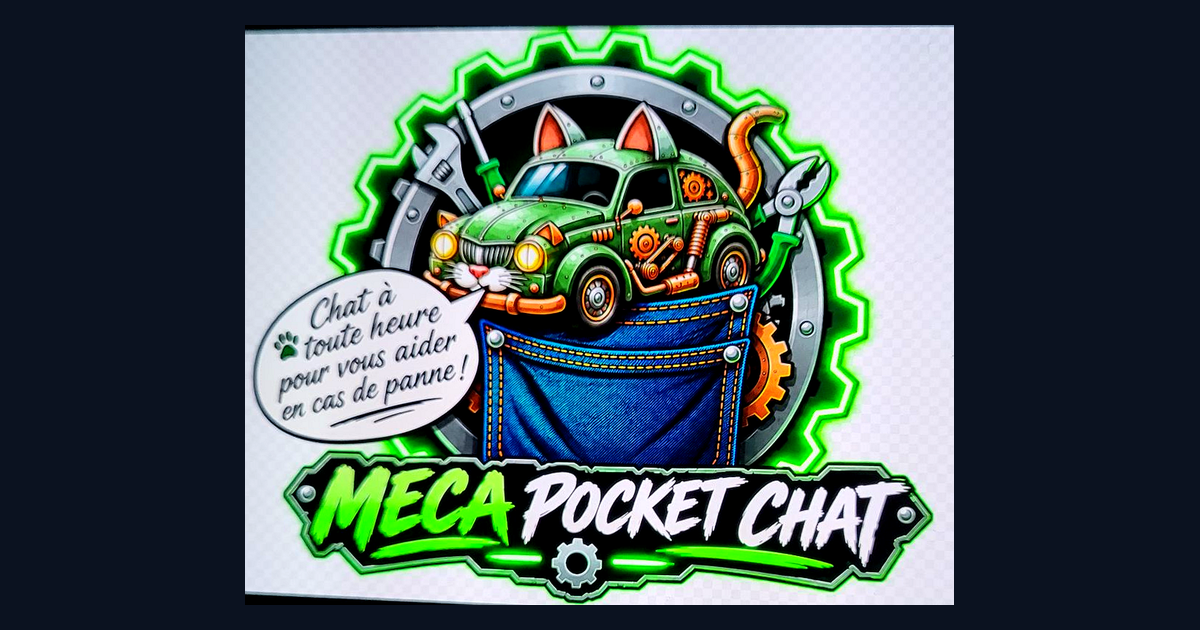
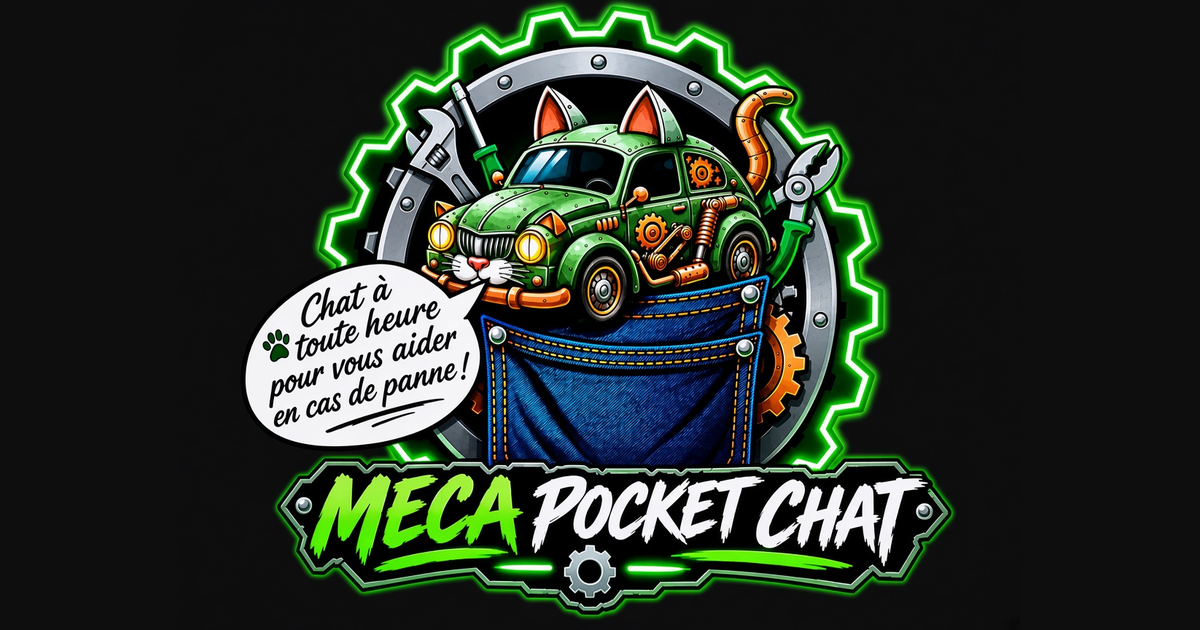
Redesign néon + Tout connecter

diff --git a/app.js b/app.js
@@ -1,4 +1,4 @@
-const h=new Date().getHours();if(h<7||h>=20)document.body.classList.add('nuit');
+const h=new Date().getHours(),NUIT=h<7||h>=20;
 const S='⚠ Moteur coupé, frein à main serré, gilet jaune et triangle si vous êtes sur la route. Sur autoroute : derrière la glissière et appelez l\'assistance.';
 const G=[
 {t:'🛞 Changer une roue',w:S+' Jamais sous la voiture quand elle est sur le cric.',s:['Garez-vous sur un sol plat et dur, hors de la circulation.','Sortez la roue de secours, le cric et la clé.','Desserrez les écrous d\'un demi-tour, roue encore au sol.','Placez le cric au point prévu (voir le manuel), levez la voiture.','Enlevez les écrous puis la roue.','Mettez la roue de secours, vissez les écrous à la main.','Redescendez la voiture, serrez les écrous en étoile, bien fort.','Vérifiez la pression et resserrez après 50 km. Une galette : 80 km/h max.']},
@@ -16,26 +16,34 @@ const PROMPT="Tu es Meca Pocket Chat, l'assistant mécanicien automobile de Stat
 const GEM_LINK='';// lien du Gem à mettre ici
 function fullPrompt(){const d=(document.getElementById('d')||{}).value;return PROMPT+(d||'Je vais te la montrer avec la caméra et t\'expliquer à voix haute. Commence par me demander de te montrer la panne.')}
 async function copy(){try{await navigator.clipboard.writeText(fullPrompt());return true}catch(e){return false}}
-async function video(){await copy();document.getElementById('st').style.display='block';setTimeout(()=>{location.href=GEM_LINK||'https://gemini.google.com/app'},1500)}
+let LS=null;
+async function connect(){const b=document.getElementById('cx');b.textContent='⏳ Connexion…';
+try{LS=await navigator.mediaDevices.getUserMedia({video:{facingMode:'environment'},audio:true});const p=document.getElementById('prev');p.srcObject=LS;p.style.display='block';
+const t=LS.getVideoTracks()[0];let dark=NUIT;
+if(!dark){await new Promise(r=>setTimeout(r,800));const c=document.createElement('canvas');c.width=32;c.height=32;const x=c.getContext('2d');x.drawImage(p,0,0,32,32);const d=x.getImageData(0,0,32,32).data;let s=0;for(let i=0;i<d.length;i+=4)s+=d[i]+d[i+1]+d[i+2];dark=s/(d.length/4*3)<50}
+if(dark){try{await t.applyConstraints({advanced:[{torch:true}]})}catch(e){}}
+b.textContent='✅ Connecté – parlez, je note';micro()}catch(e){b.textContent='🔗 Tout connecter';alert('Autorisez la caméra et le micro dans le navigateur.')}
+document.getElementById('send').style.display='block'}
+async function video(){await copy();if(LS)LS.getTracks().forEach(t=>t.stop());document.getElementById('st').style.display='block';setTimeout(()=>{location.href=GEM_LINK||'https://gemini.google.com/app'},1200)}
 async function gpt(){await copy();location.href='https://chatgpt.com/?q='+encodeURIComponent(fullPrompt())}
-function micro(){const R=window.SpeechRecognition||window.webkitSpeechRecognition;if(!R){alert('Micro non disponible ici.');return}
-const r=new R();r.lang='fr-FR';r.interimResults=true;const d=document.getElementById('d');d.style.display='block';d.placeholder='🎤 Parlez…';
-r.onresult=ev=>{d.value=[...ev.results].map(x=>x[0].transcript).join(' ')};r.start()}
-function home(){m.innerHTML=`<button class="big" style="font-size:32px;padding:34px;text-align:center" onclick="video()">🎥 Montre ta panne en vidéo</button>
-<div id="st" class="warn" style="display:none;background:#dcfce7;color:#14532d">✅ Message copié ! Gemini s'ouvre…</div>
-<ol style="font-size:24px;font-weight:600"><li>Dans Gemini, appuie longtemps dans la case et <b>Colle</b> le message, puis envoie.</li><li>Appuie sur l'icône <b>Live</b> (les ondes 〰), puis sur la <b>caméra</b> 📷.</li><li><b>Parle</b> et <b>montre</b> la panne.</li></ol>
-<button class="big g" onclick="micro()">🎤 Dire ma panne au micro</button><textarea id="d" rows="4" style="display:none;width:100%;font-size:24px;padding:14px;border-radius:14px;border:2px solid var(--acc);background:var(--card);color:var(--fg)"></textarea>
-<button class="big g" onclick="gpt()">🤖 Demander à ChatGPT</button>
-<button class="big g" onclick="torch()">🔦 Lampe torche</button>
-<button class="big" style="background:#dc2626;color:#fff" onclick="aide()">🆘 Contacter Station Technique</button>
-<h2 style="font-size:22px">Petits guides</h2><input id="q" placeholder="🔍 Chercher (roue, batterie…)" oninput="list(this.value)"><div id="l"></div>`;list('')}
-function list(q){q=q.toLowerCase().normalize('NFD').replace(/[\u0300-\u036f]/g,'');document.getElementById('l').innerHTML=G.map((g,i)=>[g,i]).filter(([g])=>(g.t+g.s.join(' ')).toLowerCase().normalize('NFD').replace(/[\u0300-\u036f]/g,'').includes(q)).map(([g,i])=>`<button class="big g" onclick="guide(${i})">${g.t}</button>`).join('')||'<p>Rien trouvé.</p>'}
+function micro(){const R=window.SpeechRecognition||window.webkitSpeechRecognition;const d=document.getElementById('d');d.style.display='block';if(!R){d.placeholder='Écrivez votre panne ici';return}
+const r=new R();r.lang='fr-FR';r.interimResults=true;r.continuous=true;d.placeholder='🎤 Décrivez votre panne à voix haute…';
+r.onresult=ev=>{d.value=[...ev.results].map(x=>x[0].transcript).join(' ')};try{r.start()}catch(e){}}
+function home(){m.innerHTML=`<button class="main" id="cx" onclick="connect()">🔗 Tout connecter</button>
+<video id="prev" playsinline autoplay muted></video>
+<textarea id="d" rows="3" style="display:none;margin-top:10px"></textarea>
+<button class="main" id="send" style="display:none" onclick="video()">🤖 Envoyer à l'IA</button>
+<div id="st" class="help" style="display:none;color:var(--g)">✅ Message copié ! Gemini s'ouvre…</div>
+<ol class="help"><li>Dans Gemini, collez le message et envoyez.</li><li>Touchez <b>Live</b> 〰 puis la caméra 📷.</li><li>Parlez et montrez la panne.</li></ol>
+<div class="links"><button onclick="gpt()">ChatGPT</button><button onclick="torch()">🔦 Lampe</button><button onclick="aide()">🆘 Contact</button><button onclick="guides()">📘 Guides</button></div>`}
+function guides(){m.innerHTML=`<button class="big" onclick="home()">⬅ Retour</button><h2>Guides</h2><input id="q" placeholder="🔍 Chercher (roue, batterie…)" oninput="list(this.value)"><div id="l"></div>`;list('')}
+function list(q){q=q.toLowerCase().normalize('NFD').replace(/[\u0300-\u036f]/g,'');document.getElementById('l').innerHTML=G.map((g,i)=>[g,i]).filter(([g])=>(g.t+g.s.join(' ')).toLowerCase().normalize('NFD').replace(/[\u0300-\u036f]/g,'').includes(q)).map(([g,i])=>`<button class="big" onclick="guide(${i})">${g.t}</button>`).join('')||'<p>Rien trouvé.</p>'}
 function guide(i){const g=G[i];m.innerHTML=`<button class="big g" onclick="home()">⬅ Retour</button><h2>${g.t}</h2><div class="warn">${g.w}</div><ol>${g.s.map(x=>`<li>${x}</li>`).join('')}</ol><button class="big" onclick="aide()">🆘 Besoin d'aide ?</button>`;scrollTo(0,0)}
 function aide(){const sub=encodeURIComponent('Meca Pocket Chat – demande d\'aide'),body=encodeURIComponent('Bonjour Station Technique,\n\nMa voiture (marque, modèle, année) :\nLe problème :\nOù je suis :\nMon téléphone :\n\n(Je joins une photo)');
 m.innerHTML=`<button class="big g" onclick="home()">⬅ Retour</button><h2>🆘 Appelez un pro si :</h2><ul><li>Vous êtes sur l'autoroute ou en danger</li><li>Fumée, odeur de brûlé, fuite d'essence</li><li>Voyant rouge allumé</li><li>Freins ou direction qui ne répondent plus</li><li>Vous n'avez pas les outils ou vous doutez</li></ul>
-<a class="big" style="background:#dc2626;color:#fff;text-decoration:none" href="tel:112">📞 Urgence : 112</a>
+<a class="big" style="border-color:#dc2626;color:#ff8080" href="tel:112">📞 Urgence : 112</a>
 <p><b>Assistance de votre assurance :</b> le numéro est sur votre carte verte ou votre contrat. Sur autoroute, utilisez les bornes orange (tous les 2 km).</p>
-<a class="big" style="text-decoration:none" href="mailto:loicm7059@gmail.com?subject=${sub}&body=${body}">✉ Demander l'aide de Station Technique</a>
+<a class="big" href="mailto:loicm7059@gmail.com?subject=${sub}&body=${body}">✉ Demander l'aide de Station Technique</a>
 <p>📸 Prenez d'abord une photo du problème (bouton Caméra), puis ajoutez-la au mail avec le trombone 📎.</p><p style="font-size:16px">Meca Pocket Chat par Station Technique – Loïc Martin – RCS Brest 525 036 570</p>`;scrollTo(0,0)}
 let st,on=false;const C=document.getElementById('cam'),V=document.getElementById('v');
 async function cam(){try{st=await navigator.mediaDevices.getUserMedia({video:{facingMode:'environment'}});V.srcObject=st;C.style.display='flex'}catch(e){alert('Caméra non disponible. Autorisez la caméra dans le navigateur.')}}
@@ -43,7 +51,7 @@ function stop(){st&&st.getTracks().forEach(t=>t.stop());st=null;on=false;C.style
 document.getElementById('cc').onclick=stop;
 document.getElementById('lt').onclick=async()=>{try{on=!on;await st.getVideoTracks()[0].applyConstraints({advanced:[{torch:on}]})}catch(e){document.getElementById('blanc').style.display='flex'}};
 document.getElementById('snap').onclick=()=>{const c=document.createElement('canvas');c.width=V.videoWidth;c.height=V.videoHeight;c.getContext('2d').drawImage(V,0,0);const u=c.toDataURL('image/jpeg',.9);stop();
-m.innerHTML=`<button class="big g" onclick="home()">⬅ Retour</button><img id="photo" src="${u}"><a class="big" style="text-decoration:none" download="panne.jpg" href="${u}">💾 Enregistrer la photo</a><button class="big" onclick="aide()">🆘 Envoyer à Station Technique</button>`};
+m.innerHTML=`<button class="big g" onclick="home()">⬅ Retour</button><img id="photo" src="${u}"><a class="big" download="panne.jpg" href="${u}">💾 Enregistrer la photo</a><button class="big" onclick="aide()">🆘 Envoyer à Station Technique</button>`};
 async function torch(){try{const s=await navigator.mediaDevices.getUserMedia({video:{facingMode:'environment'}});const t=s.getVideoTracks()[0];
 if(!(t.getCapabilities&&t.getCapabilities().torch))throw 0;await t.applyConstraints({advanced:[{torch:true}]});
 const b=document.getElementById('blanc');b.style.background='#000';b.style.color='#fff';b.textContent='🔦 Lampe allumée – touchez pour éteindre';b.style.display='flex';

diff --git a/index.html b/index.html
@@ -1,24 +1,29 @@
 <!doctype html><html lang="fr"><head><meta charset="utf-8"><meta name="viewport" content="width=device-width,initial-scale=1">
-<title>Meca Pocket Chat</title><meta name="description" content="Chat à toute heure pour vous aider en cas de panne !"><meta property="og:title" content="Meca Pocket Chat"><meta property="og:description" content="Chat à toute heure pour vous aider en cas de panne !"><meta property="og:image" content="https://lolo19p4.github.io/depannage/og.png"><link rel="manifest" href="manifest.json"><meta name="theme-color" content="#f59e0b">
+<title>Meca Pocket Chat</title><meta name="description" content="Chat à toute heure pour vous aider en cas de panne !"><meta property="og:title" content="Meca Pocket Chat"><meta property="og:description" content="Chat à toute heure pour vous aider en cas de panne !"><meta property="og:image" content="https://lolo19p4.github.io/depannage/og.png"><link rel="manifest" href="manifest.json"><meta name="theme-color" content="#0d0f0d">
 <link rel="icon" href="icon-192.png"><link rel="apple-touch-icon" href="icon-192.png">
 <style>
-:root{--bg:#fff;--fg:#111;--card:#f3f4f6;--acc:#d97706}
-body.nuit{--bg:#0b1220;--fg:#f1f5f9;--card:#1e293b;--acc:#f59e0b}
-*{box-sizing:border-box}body{margin:0;font:22px/1.5 system-ui,sans-serif;background:var(--bg);color:var(--fg)}
-header{display:flex;align-items:center;gap:12px;padding:14px;background:#111827;color:#fff}header img{width:56px;border-radius:12px}h1{font-size:26px;margin:0}
-main{padding:14px;max-width:700px;margin:auto}
-.big{display:block;width:100%;font-size:26px;font-weight:700;padding:22px;margin:10px 0;border:0;border-radius:16px;background:var(--acc);color:#111;text-align:left}
+:root{--g:#39ff14;--bg:#0d0f0d;--card:#161a16;--fg:#e8f5e4;--mut:#9aa89a}
+*{box-sizing:border-box}body{margin:0;font:19px/1.5 system-ui,sans-serif;color:var(--fg);background:radial-gradient(circle at 50% 0,#14301a 0,var(--bg) 60%) fixed,var(--bg)}
+body:before{content:"⚙";position:fixed;right:-60px;bottom:-80px;font-size:340px;color:rgba(57,255,20,.04);z-index:-1}
+header{text-align:center;padding:14px 12px 4px}header img{width:100%;max-width:460px;border-radius:18px;box-shadow:0 0 28px rgba(57,255,20,.25)}
+.slog{font-size:15px;color:var(--mut);margin-top:4px}
+main{padding:10px 16px 30px;max-width:560px;margin:auto}
+.main{display:block;width:100%;font-size:22px;font-weight:700;padding:16px;margin:12px 0;border:2px solid var(--g);border-radius:40px;background:rgba(57,255,20,.08);color:var(--g);box-shadow:0 0 16px rgba(57,255,20,.35);text-align:center}
+.big{display:block;width:100%;font-size:19px;padding:13px;margin:8px 0;border:1px solid #2a3a2a;border-radius:14px;background:var(--card);color:var(--fg);text-align:left;text-decoration:none}
 .g{background:var(--card);color:var(--fg)}
-input{width:100%;font-size:24px;padding:16px;border-radius:14px;border:2px solid var(--acc);background:var(--card);color:var(--fg)}
-.warn{background:#fee2e2;color:#7f1d1d;padding:14px;border-radius:12px;font-weight:700}
-ol li{margin:10px 0}h2{font-size:28px}
+.links{display:flex;flex-wrap:wrap;gap:8px;justify-content:center;margin-top:16px}.links button,.links a{background:none;border:1px solid #2a3a2a;color:var(--mut);border-radius:20px;padding:8px 14px;font-size:15px;text-decoration:none}
+.help{font-size:15px;color:var(--mut)}.help li{margin:3px 0}
+input,textarea{width:100%;font-size:19px;padding:12px;border-radius:12px;border:1px solid var(--g);background:var(--card);color:var(--fg)}
+.warn{background:#2a1212;color:#ffb4b4;padding:12px;border-radius:12px;font-size:17px}
+ol li{margin:8px 0}h2{font-size:22px;color:var(--g)}
+#prev{width:100%;border-radius:16px;border:2px solid var(--g);box-shadow:0 0 18px rgba(57,255,20,.3);display:none;margin-top:10px;max-height:45vh;object-fit:cover}
 #cam{position:fixed;inset:0;background:#000;display:none;z-index:9;flex-direction:column}#cam video{flex:1;width:100%;object-fit:cover}
 #cam .bar{display:flex;gap:8px;padding:10px}#cam .bar button{flex:1;margin:0}
-#blanc{position:fixed;inset:0;background:#fff;display:none;z-index:10;color:#000;font-size:24px;align-items:flex-end;justify-content:center;padding:30px}
+#blanc{position:fixed;inset:0;background:#fff;display:none;z-index:10;color:#000;font-size:22px;align-items:flex-end;justify-content:center;padding:30px}
 #photo{max-width:100%;border-radius:12px}
 </style></head><body>
-<header style="flex-direction:column;text-align:center"><img src="logo.png" alt="Meca Pocket Chat" style="width:100%;max-width:520px;border-radius:14px"><div style="font-size:22px;font-weight:700">Chat à toute heure pour vous aider en cas de panne !</div></header>
+<header><img src="logo.jpg" alt="Meca Pocket Chat"><div class="slog">Chat à toute heure pour vous aider en cas de panne !</div></header>
 <main id="m"></main>
 <div id="cam"><video id="v" playsinline autoplay muted></video><div class="bar"><button class="big" id="snap">📸 Photo</button><button class="big" id="lt">🔦 Lumière</button><button class="big g" id="cc">✖ Fermer</button></div></div>
 <div id="blanc" onclick="this.style.display='none'">Touchez l'écran pour éteindre</div>
-<script src="app.js?v=4"></script></body></html>
+<script src="app.js?v=5"></script></body></html>

diff --git a/sw.js b/sw.js
@@ -1,4 +1,4 @@
-const C='dep-v4',F=['./','index.html','app.js','manifest.json','icon-192.png','icon-512.png','logo.png'];
+const C='dep-v5',F=['./','index.html','app.js','manifest.json','icon-192.png','icon-512.png','logo.jpg'];
 self.addEventListener('install',e=>{e.waitUntil(caches.open(C).then(c=>c.addAll(F)));self.skipWaiting()});
 self.addEventListener('activate',e=>{e.waitUntil(caches.keys().then(k=>Promise.all(k.filter(x=>x!==C).map(x=>caches.delete(x)))));self.clients.claim()});
 self.addEventListener('fetch',e=>{e.respondWith(caches.match(e.request).then(r=>r||fetch(e.request)))});
